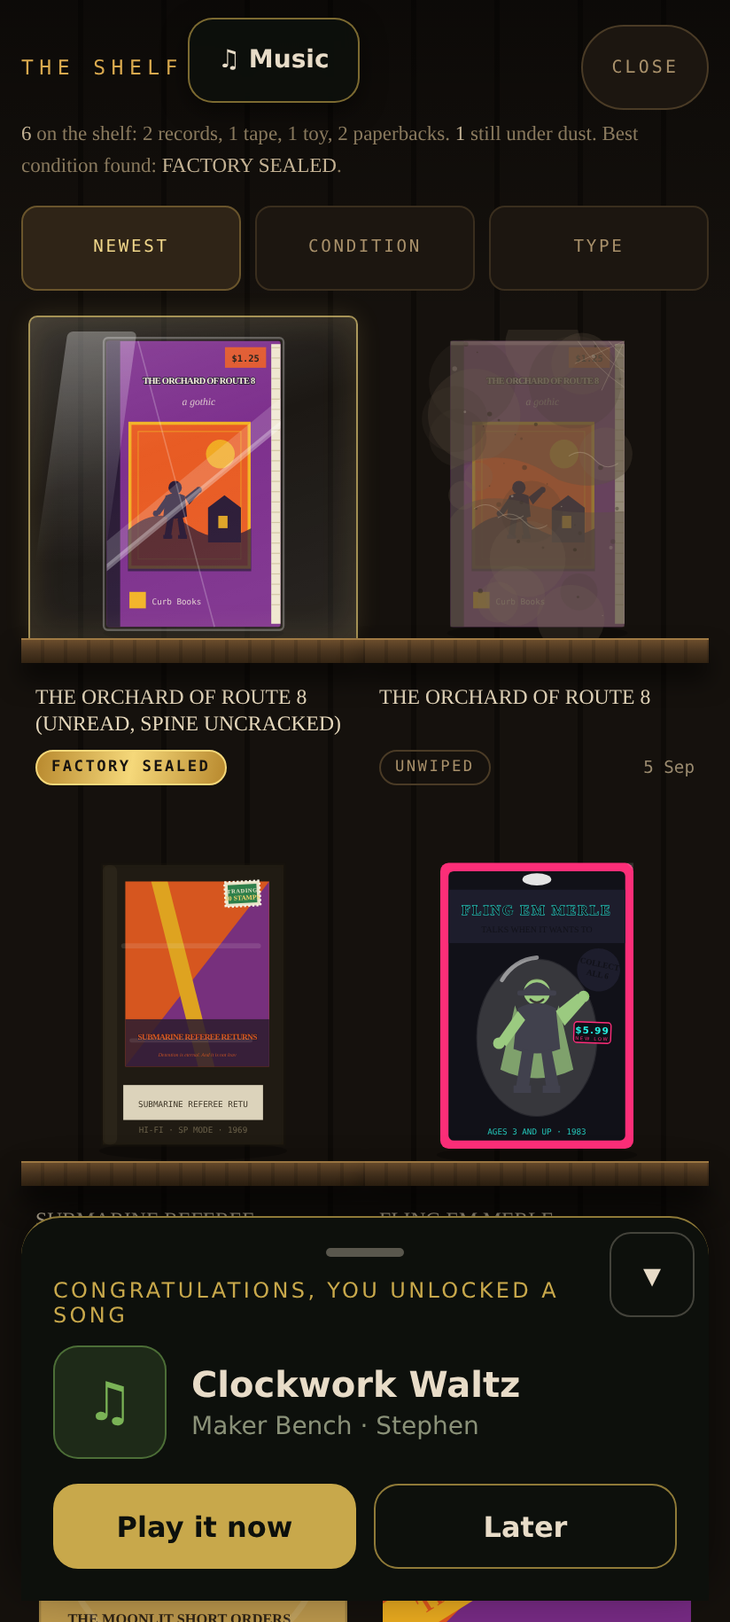
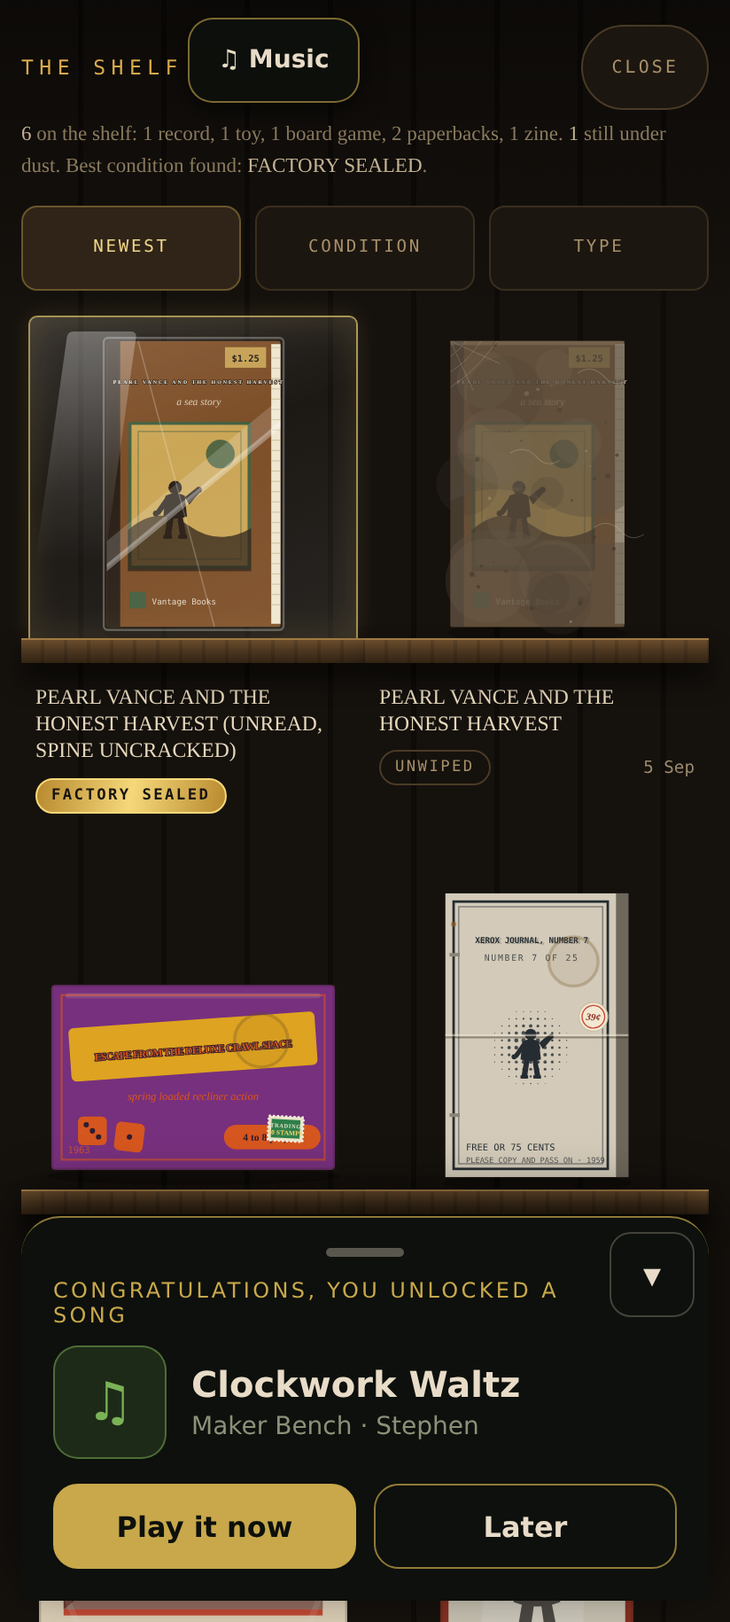
Litter Bug mint moment (vendored); The Attic objects stand on their plank, album lines fit
Litter Bug: the jar lifts, the bug rises, the grade stamps. The Attic: a board game and a
lunchbox floated above the board; each class slides down by the air under its drawn box and
the gate measures every card's drawn bottom against its plank; the record album sub lines fit
their room. Pins 20260905g. Attic gate 150 ok, Litter Bug 133 ok.

Claude-Session: https://claude.ai/code/session_013HthiUn8assva5gKt2q7fh

diff --git a/satellites/attic/sleeve-render.js b/satellites/attic/sleeve-render.js
@@ -207,26 +207,26 @@
         + '<rect y="168" width="300" height="8" fill="' + c[2] + '"/>'
         + '<rect x="12" y="' + (108) + '" width="' + (276) + '" height="46" fill="' + c[3] + '" opacity="0.9"/>'
         + '<text x="24" y="' + (140) + '" font-family="' + look.f + '" font-weight="800" ' + look.ta + ' font-size="' + fit(band, 30, 252, look.ls) + '" fill="' + c[0] + '"' + '>' + esc(band) + '</text>'
-        + '<text x="20" y="222" font-family="' + look.f + '" font-size="17" fill="' + c[0] + '">' + esc(album) + '</text>'
+        + '<text x="20" y="222" font-family="' + look.f + '" font-size="' + fit(album, 17, 262) + '" fill="' + c[0] + '">' + esc(album) + '</text>'
         + '<rect x="20" y="236" width="90" height="3" fill="' + c[2] + '"/>';
     } else if (layout === 1) {   // DIAGONAL: band name on an angle over a split field
       g += '<path d="M0 300 L300 0 L300 300 Z" fill="' + c[1] + '"/>'
         + '<g transform="rotate(-32 150 150)"><rect x="-40" y="130" width="380" height="44" fill="' + c[2] + '"/>'
         + '<text x="150" y="160" text-anchor="middle" font-family="' + look.f + '" font-weight="800" ' + look.ta + ' font-size="' + fit(band, 26, 292, look.ls) + '" fill="' + c[0] + '">' + esc(band) + '</text></g>'
-        + '<text x="284" y="252" text-anchor="end" font-family="' + look.f + '" font-size="14" fill="' + c[3] + '">' + esc(album) + '</text>';
+        + '<text x="284" y="252" text-anchor="end" font-family="' + look.f + '" font-size="' + fit(album, 14, 250) + '" fill="' + c[3] + '">' + esc(album) + '</text>';
     } else if (layout === 2) {   // SUN: centered circle motif
       g += '<circle cx="150" cy="132" r="86" fill="' + c[2] + '"/><circle cx="150" cy="132" r="58" fill="' + c[1] + '"/><circle cx="150" cy="132" r="12" fill="' + c[0] + '"/>'
         + '<text x="150" y="246" text-anchor="middle" font-family="' + look.f + '" font-weight="800" ' + look.ta + ' font-size="' + fit(band, 27, 280, look.ls) + '" fill="' + c[3] + '"' + '>' + esc(band) + '</text>'
-        + '<text x="150" y="266" text-anchor="middle" font-family="' + look.f + '" font-size="13" fill="' + c[2] + '">' + esc(album) + '</text>';
+        + '<text x="150" y="266" text-anchor="middle" font-family="' + look.f + '" font-size="' + fit(album, 13, 270) + '" fill="' + c[2] + '">' + esc(album) + '</text>';
     } else if (layout === 3) {   // BARS: horizontal banding, right-set type
       var i; for (i = 0; i < 7; i++) g += '<rect y="' + (i * 44) + '" width="300" height="22" fill="' + (i % 2 ? c[1] : c[2]) + '" opacity="' + (0.16 + i * 0.12) + '"/>';
       g += '<text x="282" y="84" text-anchor="end" font-family="' + look.f + '" font-weight="800" ' + look.ta + ' font-size="' + fit(band, 30, 266, look.ls) + '" fill="' + c[3] + '">' + esc(band) + '</text>'
-        + '<text x="282" y="112" text-anchor="end" font-family="' + look.f + '" font-size="15" fill="' + c[3] + '" opacity="0.8">' + esc(album) + '</text>';
+        + '<text x="282" y="112" text-anchor="end" font-family="' + look.f + '" font-size="' + fit(album, 15, 262) + '" fill="' + c[3] + '" opacity="0.8">' + esc(album) + '</text>';
     } else if (layout === 4) {   // SPLIT: two colour halves, the band name set tall up the seam
       g += '<rect width="150" height="300" fill="' + c[1] + '"/><rect x="150" width="150" height="300" fill="' + c[2] + '"/>'
         + '<rect x="142" width="16" height="300" fill="' + c[3] + '"/>'
         + '<g transform="rotate(-90 150 150)"><text x="150" y="158" text-anchor="middle" font-family="' + look.f + '" font-weight="800" ' + look.ta + ' font-size="' + fit(band, 30, 270, look.ls) + '" fill="' + c[0] + '">' + esc(band) + '</text></g>'
-        + '<text x="24" y="270" font-family="' + look.f + '" font-size="14" fill="' + c[3] + '">' + esc(album) + '</text>'
+        + '<text x="24" y="270" font-family="' + look.f + '" font-size="' + fit(album, 14, 200) + '" fill="' + c[3] + '">' + esc(album) + '</text>'
         + '<circle cx="222" cy="72" r="34" fill="' + c[0] + '" opacity="0.9"/><circle cx="222" cy="72" r="6" fill="' + c[3] + '"/>';
     } else if (layout === 5) {   // PLATE: a photograph plate with a title strip under it, the label house look
       g += '<rect x="24" y="22" width="252" height="176" fill="' + c[3] + '"/>'
@@ -235,17 +235,17 @@
         + '<path d="M24 198 L120 120 L180 160 L276 96 L276 198 Z" fill="' + c[0] + '" opacity="0.35"/>'
         + '<rect x="24" y="198" width="252" height="6" fill="' + c[2] + '"/>'
         + '<text x="28" y="240" font-family="' + look.f + '" font-weight="800" ' + look.ta + ' font-size="' + fit(band, 26, 244, look.ls) + '" fill="' + c[3] + '">' + esc(band) + '</text>'
-        + '<text x="28" y="262" font-family="' + look.f + '" font-size="13" fill="' + c[2] + '">' + esc(album) + '</text>';
+        + '<text x="28" y="262" font-family="' + look.f + '" font-size="' + fit(album, 13, 246) + '" fill="' + c[2] + '">' + esc(album) + '</text>';
     } else if (layout === 6) {   // TARGET: concentric rings off centre, the name across the middle
       var rr2; for (rr2 = 150; rr2 > 0; rr2 -= 26) g += '<circle cx="190" cy="120" r="' + rr2 + '" fill="' + ((rr2 / 26) % 2 ? c[1] : c[2]) + '"/>';
       g += '<rect y="132" width="300" height="52" fill="' + c[3] + '" opacity="0.92"/>'
         + '<text x="150" y="168" text-anchor="middle" font-family="' + look.f + '" font-weight="800" ' + look.ta + ' font-size="' + fit(band, 30, 276, look.ls) + '" fill="' + c[0] + '">' + esc(band) + '</text>'
-        + '<text x="150" y="222" text-anchor="middle" font-family="' + look.f + '" font-style="italic" font-size="14" fill="' + c[3] + '">' + esc(album) + '</text>';
+        + '<text x="150" y="222" text-anchor="middle" font-family="' + look.f + '" font-style="italic" font-size="' + fit(album, 14, 276) + '" fill="' + c[3] + '">' + esc(album) + '</text>';
     } else {                     // GRID: nine tiles, one inverted, the name in a bar
       var gi, gj; for (gi = 0; gi < 3; gi++) for (gj = 0; gj < 3; gj++) { var inv = (gi * 3 + gj) === (hb(h, 28) % 9); g += '<rect x="' + (18 + gi * 90) + '" y="' + (18 + gj * 60) + '" width="84" height="54" fill="' + (inv ? c[2] : c[1]) + '"/>' + (inv ? '<circle cx="' + (60 + gi * 90) + '" cy="' + (45 + gj * 60) + '" r="16" fill="' + c[0] + '"/>' : ''); }
       g += '<rect y="206" width="300" height="60" fill="' + c[3] + '"/>'
         + '<text x="150" y="238" text-anchor="middle" font-family="' + look.f + '" font-weight="800" ' + look.ta + ' font-size="' + fit(band, 26, 276, look.ls) + '" fill="' + c[0] + '">' + esc(band) + '</text>'
-        + '<text x="150" y="256" text-anchor="middle" font-family="' + look.f + '" font-size="12" fill="' + c[0] + '" opacity="0.8">' + esc(album) + '</text>';
+        + '<text x="150" y="256" text-anchor="middle" font-family="' + look.f + '" font-size="' + fit(album, 12, 276) + '" fill="' + c[0] + '" opacity="0.8">' + esc(album) + '</text>';
     }
     // label logo chip + era year, always
     g += '<rect x="16" y="272" width="12" height="12" fill="' + c[2] + '"/>'

diff --git a/satellites/litter-bug/index.html b/satellites/litter-bug/index.html
@@ -224,6 +224,27 @@ h1.logo{font-size:46px;line-height:1;color:var(--grub);font-weight:800;letter-sp
 
 /* ── mint ── */
 .mintwrap{display:flex;flex-direction:column;align-items:center;gap:10px}
+/* THE MINT MOMENT (2026-09-05). Thirty Shinies used to cut straight to a finished card. Now the
+   jar sits on the screen, the lid lifts and the jar fades up and away, the bug rises out of it,
+   the grade stamps on, and the name and lore settle in after. Two seconds, skippable by a tap,
+   none of it under prefers-reduced-motion. */
+.mintstage{position:relative;width:230px;height:230px}
+.mintstage .mjar{position:absolute;left:50%;top:50%;width:140px;height:196px;transform:translate(-50%,-50%);filter:drop-shadow(0 10px 22px #000a)}
+.mintstage .mjar svg{width:100%;height:100%;display:block}
+.mintstage #m-art{position:relative}
+.ceremony .mintstage .mjar{animation:jarlift .95s ease-in .25s both}
+.ceremony .mintstage #m-art{animation:bugrise 1s cubic-bezier(.2,.8,.2,1) .55s both}
+.ceremony .mglow{position:absolute;left:50%;top:50%;width:260px;height:260px;border-radius:50%;transform:translate(-50%,-50%);
+  background:radial-gradient(circle,#e8c46a55 0%,#e8c46a22 35%,transparent 70%);animation:glowin 1.4s ease-out .4s both;pointer-events:none}
+.ceremony #m-grade{animation:pop .5s ease-out 1.35s both}
+.ceremony #m-marks,.ceremony #m-name,.ceremony #m-species,.ceremony #m-lore,.ceremony #m-grow,.ceremony #m-kicker{animation:settle .6s ease-out 1.65s both}
+.ceremony #m-lore,.ceremony #m-grow{animation-delay:1.9s}
+.mintwrap:not(.ceremony) .mjar,.mintwrap:not(.ceremony) .mglow{display:none}
+@keyframes jarlift{0%{opacity:1;transform:translate(-50%,-50%)}35%{opacity:.85;transform:translate(-50%,-60%) rotate(-4deg)}100%{opacity:0;transform:translate(-50%,-150%) rotate(-14deg)}}
+@keyframes bugrise{0%{opacity:0;transform:translateY(46px) scale(.55)}60%{opacity:1}100%{opacity:1;transform:translateY(0) scale(1)}}
+@keyframes glowin{0%{opacity:0;transform:translate(-50%,-50%) scale(.4)}40%{opacity:1}100%{opacity:0;transform:translate(-50%,-50%) scale(1.5)}}
+@keyframes settle{0%{opacity:0;transform:translateY(8px)}100%{opacity:1;transform:translateY(0)}}
+@media (prefers-reduced-motion:reduce){ .ceremony *{animation:none !important} .mintwrap .mjar,.mintwrap .mglow{display:none} }
 /* ⛔ this used to be a 1px outline on the page ground. On a COMMON that is grey
    text in a grey ring on a dark screen and it reads as a DISABLED BUTTON, which
    is a terrible thing for the label on the bug you just earned. It is a filled
@@ -545,8 +566,8 @@ h1.logo{font-size:46px;line-height:1;color:var(--grub);font-weight:800;letter-sp
   <div class="screen" id="s-mint">
     <div class="pad center">
       <div class="dim" style="letter-spacing:3px;font-size:13px" id="m-kicker">SOMETHING IN THE JAR</div>
-      <div class="mintwrap" style="margin-top:14px">
-        <div id="m-art"></div>
+      <div class="mintwrap" id="m-wrap" style="margin-top:14px">
+        <div class="mintstage"><div class="mglow"></div><div class="mjar" id="m-jar"></div><div id="m-art"></div></div>
         <div class="gradepill" id="m-grade">COMMON</div>
         <div class="marks" id="m-marks"></div>
         <div class="specname" id="m-name"></div>
@@ -1697,6 +1718,9 @@ async function doMint(){
   $('m-lore').textContent=id.lore;
   $('m-kicker').textContent='SPECIMEN '+((SAVE.dex||[]).length+1);
   LB_SFX.play('jar');
+  /* the ceremony: reset the classes so a second mint plays it again, then let it run */
+  var mw=$('m-wrap'); mw.classList.remove('ceremony'); void mw.offsetWidth;
+  $('m-jar').innerHTML=jarSVG(); mw.classList.add('ceremony');
   var gl=growthLeft(gr,1);
   $('m-grow').textContent='Level 1. It fights small. Every win in the dumpster grows it.'
     +(gl.left ? ' '+gl.left+' of '+gl.total+' parts still to grow in, the '+gl.next.label+' first, at level '+gl.nextLvl+'.' : '');
@@ -2232,6 +2256,8 @@ $('b-done-home').onclick=function(){ paintHome(); show('s-home'); };
 $('b-done-mint').onclick=function(){ doMint(); };
 $('b-mint').onclick=function(){ doMint(); };
 $('b-mint-keep').onclick=function(){ keepBug(); };
+/* a tap anywhere on the mint screen lands the ceremony at its end */
+$('s-mint').addEventListener('click', function(e){ var mw=$('m-wrap'); if(mw.classList.contains('ceremony') && !(e.target&&e.target.id==='b-mint-keep')) mw.classList.remove('ceremony'); }, true);
 $('b-dex').onclick=function(){ paintDex(); show('s-dex'); };
 $('b-dex-back').onclick=function(){ paintHome(); show('s-home'); };
 $('b-spec-back').onclick=function(){ paintDex(); show('s-dex'); };
@@ -2318,6 +2344,7 @@ if(/[?&]lbtest=1/.test(location.search)){
     setCuts:function(a){ var C=BUG_ENGINE.GRADE_CUT; C.length=0; for(var i=0;i<a.length;i++) C.push(a[i]); return C; },
     plan:BUG_ENGINE.bugPlan, svg:bugSVG, openSpec:openSpec, renderCard:renderBugCard, sfx:LB_SFX, openBeat:openBeat, openI:function(){ return OPEN_I; },
     coach:coachLine, growthNote:growthNote, ledger:function(){ return AR?AR.ledger:null; },
+    ceremonyOn:function(){ return $('m-wrap').classList.contains('ceremony'); },
     dailyCap:function(){ return DAILY_CAP; },
     capState:capState, jobState:function(){ return G; },
     reset:function(){ SAVE={shinies:0,dex:[],jobs:0,lastDay:0,champ:null,king:null,bests:{},times:{},week:null,cleanWeeks:0}; save();

diff --git a/satellites/litter-bug/check.js b/satellites/litter-bug/check.js
@@ -495,6 +495,31 @@ function ok(cond, label, detail) {
     ok(ar.before === 1 && ar.rows >= 2 && ar.hotFirst && ar.tagged, 'the ledger keeps every round, newest on top in ink, tagged by round', { before: ar.before, rows: ar.rows, hotFirst: ar.hotFirst, tagged: ar.tagged });
     ok(ar.logH >= 100 && ar.gap <= 16, 'the ledger box fills the space above the moves', { logH: ar.logH, gap: ar.gap });
 
+    // ══ THE MINT MOMENT ═══════════════════════════════════════════════
+    group('the mint moment: the jar lifts, the bug rises, the grade stamps, a tap lands it');
+    const mmPage = await open(FILE + '?lbtest=1');
+    const mm = await mmPage.evaluate(async () => {
+      const D = window.LB_DEV; D.reset(); D.setShinies(D.mintCost);
+      await D.doMint();
+      const wait = ms => new Promise(r => setTimeout(r, ms));
+      const on0 = D.ceremonyOn();
+      const jar = document.getElementById('m-jar'), art = document.getElementById('m-art'), pill = document.getElementById('m-grade');
+      const names = el => getComputedStyle(el).animationName;
+      const a0 = { jar: names(jar), art: names(art), pill: names(pill), jarSvg: !!jar.querySelector('svg') };
+      const jarOp0 = parseFloat(getComputedStyle(jar).opacity), artOp0 = parseFloat(getComputedStyle(art).opacity);
+      await wait(1900);
+      const jarOp1 = parseFloat(getComputedStyle(jar).opacity), artOp1 = parseFloat(getComputedStyle(art).opacity);
+      /* a tap on the stage lands it early */
+      document.getElementById('m-wrap').classList.add('ceremony');
+      document.getElementById('m-art').dispatchEvent(new MouseEvent('click', { bubbles: true }));
+      const landed = !D.ceremonyOn(), jarHidden = getComputedStyle(jar).display === 'none';
+      return { on0, a0, jarOp0, artOp0, jarOp1, artOp1, landed, jarHidden, scr: D.cur() };
+    });
+    await mmPage.close();
+    ok(mm.on0 && mm.a0.jar === 'jarlift' && mm.a0.art === 'bugrise' && mm.a0.pill === 'pop' && mm.a0.jarSvg, 'the mint opens with the jar on stage, the bug rising, the pill stamping', mm.a0);
+    ok(mm.jarOp0 > 0.9 && mm.artOp0 < 0.1 && mm.jarOp1 < 0.1 && mm.artOp1 > 0.9, 'at the start the jar is solid and the bug unseen; two seconds later the jar is gone and the bug is there', { jarOp0: mm.jarOp0, artOp0: mm.artOp0, jarOp1: mm.jarOp1, artOp1: mm.artOp1 });
+    ok(mm.landed && mm.jarHidden && mm.scr === 's-mint', 'a tap on the stage lands the ceremony at its end', { landed: mm.landed, jarHidden: mm.jarHidden });
+
     // ══ A CORRUPT SAVE ════════════════════════════════════════════════
     group('a junk save boots into a clean game, not a dead page');
     const JUNK = [

diff --git a/satellites/attic/index.html b/satellites/attic/index.html
@@ -352,6 +352,15 @@
 .shCard:active .shObj{ filter:brightness(1.12) }
 .shObj{ padding:8px 10px 0; position:relative }
 .shObj svg{ width:100%; height:auto; display:block }
+/* ⛔ THINGS STAND ON THE BOARD. Every object is drawn in a 300 square, and a board game or a
+   lunchbox is a landscape box in the middle of it, so on the first shelf they floated an
+   inch above the plank while the tall boxes sat on it. Each class slides down by the air
+   under its drawn box (its by + bh in object-render.js), so the drawn bottom and its shadow
+   meet the plank. Records fill the square and stay put. */
+/* the drawn bottom includes the shadow the renderer throws under the box (about 14 units), so
+   the tall classes already reach the board and only the two landscape boxes slide down */
+.shObj[data-cls="GAME"] svg{ transform:translateY(13%) }
+.shObj[data-cls="LUNCHBOX"] svg{ transform:translateY(12.5%) }
 /* the plank: a board with a lit top edge, grain, and the shadow it throws on the wall below */
 .shPlank{ height:14px; position:relative; background:linear-gradient(180deg, #6b4d2c 0, #4b3620 48%, #332413 100%);
   border-top:1px solid #a07a44; box-shadow:0 9px 14px rgba(0,0,0,0.62) }
@@ -662,10 +671,10 @@
 </div></div>
 <div id="toast"></div>
 
-<script src="attic-engine.js?v=20260905f"></script>
-<script src="attic-econ.js?v=20260905f"></script>
-<script src="sleeve-render.js?v=20260905f"></script>
-<script src="object-render.js?v=20260905f"></script>
+<script src="attic-engine.js?v=20260905g"></script>
+<script src="attic-econ.js?v=20260905g"></script>
+<script src="sleeve-render.js?v=20260905g"></script>
+<script src="object-render.js?v=20260905g"></script>
 <script>
 (function () {
   'use strict';
@@ -1245,7 +1254,7 @@
     for (i = 0; i < SH_SHOWN; i++) {
       h = list[i]; it = ATTIC.hashToItem(h); wiped = !!revealed[h];
       html += '<button class="shCard' + (wiped && it.grade === 'FACTORY SEALED' ? ' sealed' : '') + '" data-h="' + h + '">'
-        + '<div class="shObj">' + ATTIC_OBJECT.renderItem(h, 260, { dusty: !wiped }).svg + '</div>'
+        + '<div class="shObj" data-cls="' + esc(it.cls) + '">' + ATTIC_OBJECT.renderItem(h, 260, { dusty: !wiped }).svg + '</div>'
         + '<div class="shPlank"></div>'
         + '<div class="shLabel"><div class="shName">' + esc(it.name) + (wiped && it.revealSuffix ? esc(it.revealSuffix) : '') + '</div>'
         + '<div class="shFoot">'

diff --git a/satellites/attic/check.js b/satellites/attic/check.js
@@ -644,14 +644,23 @@ if (process.env.AT_NOBROWSER === '1') { console.log('\n(browser group skipped: A
       const cs = sealed ? getComputedStyle(sealed, '::before') : null;
       const caseOk = !!cs && parseFloat(cs.borderTopWidth) >= 1 && cs.backgroundImage !== 'none';
       const cardBox = getComputedStyle(cards[0]).borderTopWidth;
+      /* every object's DRAWN bottom (the svg's content box, not its square) must meet its plank:
+         a board game floated an inch above the board on the first shelf */
+      const seats = cards.map(c => { const svg = c.querySelector('.shObj svg'), pl = c.querySelector('.shPlank').getBoundingClientRect();
+        let bb; try { bb = svg.getBBox(); } catch (e) { return null; }
+        /* the dust layer paints past the square and the svg clips it, so the drawn bottom is capped at 300 */
+        const r = svg.getBoundingClientRect(), sc = r.height / 300; const bottom = r.top + Math.min(300, bb.y + bb.height) * sc;
+        return Math.round(pl.top - bottom); });
+      const seatOk = seats.every(g => g !== null && g >= -6 && g <= 14), seatMax = Math.max.apply(null, seats), seatMin = Math.min.apply(null, seats);
       D.dropPull(sealedH); delete D.revealed()[sealedH];
       D.closeShelf();
-      return { n: cards.length, parts, sameRow, plankH: Math.round(plankH), wall: wall !== 'none', caseOk, cardBox };
+      return { n: cards.length, parts, sameRow, plankH: Math.round(plankH), wall: wall !== 'none', caseOk, cardBox, seatOk, seatMin, seatMax, seats };
     });
     ok('every find stands on a plank with its label under the board', room.n >= 4 && room.parts, JSON.stringify(room));
     ok('two finds in a row share one continuous plank', room.sameRow && room.plankH >= 10, JSON.stringify({ sameRow: room.sameRow, plankH: room.plankH }));
     ok('the wall is boards, and the cards have no box of their own', room.wall && room.cardBox === '0px', JSON.stringify({ wall: room.wall, cardBox: room.cardBox }));
     ok('a factory sealed find sits in a glass case', room.caseOk, room.caseOk);
+    ok('every object stands on its plank: drawn bottom within a thumb of the board', room.seatOk, JSON.stringify({ min: room.seatMin, max: room.seatMax, seats: room.seats }));
 
     group('the wear line waits for the wipe');
     const wear = await page.evaluate(() => new Promise((res) => {

diff --git a/docs/FLAGSHIP-PLAN-LB-ATTIC.md b/docs/FLAGSHIP-PLAN-LB-ATTIC.md
@@ -26,6 +26,7 @@ here. Litter Bug edits live in `/workspaces/Litter_Bug` and are re-vendored; The
 | 10 | Onboarding: the first run opens on three beats instead of the rules wall (the alley, drawn; the jar with a real bug behind the glass; the padlocked dumpster), one kicker, one line, one sub each, a dot strip, NEXT then WORK THE ALLEY, a SKIP pill (72 CSS px, the stage scale trap again), a tap on the picture turns the page; the device remembers (lb_how) and HOW TO PLAY keeps the full rules. Gate: a fresh device opens on beat one and NEXT walks all three, every beat has a picture and a line, the third lands on HOME, the next visit opens on HOME with the rules still under HOW TO PLAY; 124 ok, the remember mutant red. Shots `lb-open-beat1.png` to `lb-open-beat3.png` | done Sep 05 |
 | 11 | Painted places land (alley, four trials, lid, jar, dumpster) and replace the drawn ones | waits on paint |
 | 12 | Arena pass: the log is a fight ledger now (a box that fills the 300px hole between the champion and the moves, every round kept, newest on top in ink, older rounds stepping back, tagged R1 R2, scrolling when long); the tell carries one coaching sentence (when the incoming hit is a threat and a status move answers it, that move by name: Guard halves it, Cinder Swarm takes the sting out of it, Fortify blunts it, Feint spoils its aim, Rust Hex slows it; otherwise, when a move of yours lands hard, it says so); the win card names the level and which part grew in, with a chip, or the next part and its level. Gate 130 ok. **BALANCE, DIRECTOR CALL.** Measured over seven days of real ladders, 60 fresh champions, the engine playing both sides: challenger 1 (offset -3): LV1 55% (days 20 to 85%), LV5 78% (days 32 to 98%), LV10 71% (days 28 to 98%), LV20 64% (days 25 to 97%) · challenger 2 (offset -1): LV1 48% (days 2 to 80%), LV5 54% (days 8 to 83%), LV10 52% (days 5 to 78%), LV20 52% (days 7 to 78%) · challenger 3 (offset 1): LV1 32% (days 5 to 57%), LV5 33% (days 7 to 57%), LV10 36% (days 7 to 67%), LV20 37% (days 3 to 67%) · challenger 4 (offset 3): LV1 12% (days 0 to 33%), LV5 17% (days 2 to 37%), LV10 19% (days 7 to 40%), LV20 23% (days 7 to 43%) · challenger 5 (offset 6): LV1 9% (days 0 to 18%), LV5 15% (days 0 to 37%), LV10 19% (days 3 to 42%), LV20 25% (days 3 to 53%) · all five in one day at LV5: about 0.3% of champions, engine AI both sides · all five in one day at LV10: about 0.5% of champions, engine AI both sides · all five in one day at LV20: about 0.7% of champions, engine AI both sides · with offsets [-3,-1,0,1,3] at LV10: C1 71%, C2 52%, C3 42%, C4 27%, C5 27% · at equal level (LV10 vs LV10) per rung: C1 55%, C2 46%, C3 42%, C4 33%, C5 43%. Rungs one and two are a fair fight; rungs four and five are a wall at every level, and the crown (all five in one day, thirty Shinies, "a whole bug") lands for about one champion in two hundred, so the purse is a promise almost nobody can collect. Proposal: level offsets [-3,-1,0,1,3] instead of [-3,-1,1,3,6] (rungs four and five go to about 27 percent, the crown to a few percent a day), or keep the offsets and let the crown count across days (five different challengers beaten, whenever). Today's numbers when I first wrote this row were one mean day (C3 5, C4 0, C5 10 percent) and I wrote "about half at every rung" before the numbers came out; that sentence was wrong and is gone | done Sep 05, balance is a call |
+| 13 | The mint moment: thirty Shinies used to cut straight to a finished card. Now the jar sits on the stage, a glow blooms, the jar lifts and fades away, the bug rises out of it, the grade stamps on and the name and lore settle in after, about two seconds, a tap on the stage lands it early, none of it under prefers-reduced-motion. Gate: the jar is solid and the bug unseen at the start, two seconds later the jar is gone and the bug is there, a tap lands it; 133 ok. Frames `lb-mint-jar.png`, `lb-mint-rise.png`, `lb-mint-settled.png` (a 2x screenshot takes most of a second on this box, so the frames run late; the computed opacity trace is the proof) | done Sep 05 |
 
 ## The Attic
 
@@ -35,7 +36,7 @@ here. Litter Bug edits live in `/workspaces/Litter_Bug` and are re-vendored; The
 | 2 | Layout banks: records 4 to 8 sleeve layouts, VHS 3 to 6 motifs, cereal 4 to 8 mascots, comics 1 to 3 covers, toys 1 to 3 card backs, handhelds 1 to 3 shells, board games dice or spinner or pawns, paperbacks 1 to 3 vignettes, lunchboxes 1 to 3 scenes, zines 1 to 3 pages; every switch on a byte the renderers never spent (7 to 15, 30, 31), so an existing find only changes picture when its new byte says so; sixty renders old and new looked at, gate 128 ok | done Sep 05 |
 | 3 | Era depth: the price sticker is an era object now (a 39 cent paper dot with a red ring, a green trading stamp with a perforated edge, an orange price gun label with a torn edge and a SALE line, a black shop tag with a neon edge, a clearance barcode), read off the era byte the engine reads, shown on wiped grades up to NEAR MINT as before; every class's title carries its era's type treatment (50s italic script, 60s round bubble outline, 70s spaced slab with a mitre outline, 80s narrow caps with a cyan hairline, 90s mono spread wide and a little faded) through one attribute string per era on the eight title lines, and `fit` now subtracts the letter spacing so the 80s and 90s titles stay inside their boxes (the first sheet ran them a hundred units past). Records got the same treatment in a second pass (the era sticker moved into sleeve-render.js so both renderers share one, the eight band name layouts carry the era voice, the sleeve's own cream oval is gone): `attic-era-records-sheet.png`, eight layouts by five eras. Sheet: `attic-era-sheet.png`, nine classes by five eras at GOOD. Gate 135 ok, the era mutant (every sticker 70s) red through a new AT_OBJECT override. Pins 20260905d | done Sep 05 |
 | 4 | Condition as story: a WEAR bank per grade in the engine (56 lines, ten a grade at the low end, four at FACTORY SEALED), `revealStory` on every item, printed only after the wipe, under the plate on the find card and the flip card, as a WEAR row on the ledger and above the plate on the shared PNG; the class flaw moved from an orphan line under the maker to the same block ("The button legends have worn away to blanks. Passed around a whole street of cousins."); FINE and NEAR MINT had nothing to say after the wipe before this. Found and fixed on the way: the workout VHS cover stripes bled a third of the cover past both edges on every shared card (cover art now clipped, id cut from bytes 3 to 7 so the dusty art stays grade blind), and the PNG plate now steps down when the name and sub both wrap. Gate 132 ok, the two story assertions watched red on an engine mutant. Pins bumped to 20260905c | done Sep 05 |
-| 5 | The shelf as a room: the wall is boards, every row of finds stands on one continuous plank (the cards lost their box and their gap so the plank segments join; the label hangs under the board), a factory sealed find sits in a glass case with a glare (an overlay, because a case that changed the object's width put that plank 4px off the row). FOUND AND FIXED ON THE WAY: **scrapping a find did not survive a reload.** The shelf save is a union of memory and disk for the two tab case, and it kept the disk copy of a find the player had just scrapped, so every scrap came back on the next load with its ticket already paid (scrap, reload, scrap again: a free ticket every two reloads). Now a scrapped hash gets a tombstone kept for a week (`attic_gone_v1`), no merge or boot read lets it through; the gate scraps through the real button, reloads, and counts. Gate 149 ok; the econ mutant (merge ignoring tombstones) red through a new AT_ECON override. Pins 20260905e. Shots `attic-shelf-room.png`, `attic-shelf-room-320.png`. The shell's music chip covers THE SHELF title on this sheet (music-unlocks.js, not this terminal's fence) | done Sep 05 |
+| 5 | The shelf as a room: the wall is boards, every row of finds stands on one continuous plank (the cards lost their box and their gap so the plank segments join; the label hangs under the board), a factory sealed find sits in a glass case with a glare (an overlay, because a case that changed the object's width put that plank 4px off the row); every object STANDS on its plank (a board game and a lunchbox are landscape boxes in the middle of their square and floated an inch above the board on the first shelf; each class slides down by the air under its drawn box and the gate measures the drawn bottom against the plank on every card). FOUND AND FIXED ON THE WAY: **scrapping a find did not survive a reload.** The shelf save is a union of memory and disk for the two tab case, and it kept the disk copy of a find the player had just scrapped, so every scrap came back on the next load with its ticket already paid (scrap, reload, scrap again: a free ticket every two reloads). Now a scrapped hash gets a tombstone kept for a week (`attic_gone_v1`), no merge or boot read lets it through; the gate scraps through the real button, reloads, and counts. Gate 149 ok; the econ mutant (merge ignoring tombstones) red through a new AT_ECON override. Pins 20260905e. Shots `attic-shelf-room.png`, `attic-shelf-room-320.png`. The shell's music chip covers THE SHELF title on this sheet (music-unlocks.js, not this terminal's fence) | done Sep 05 |
 | 6 | Loop: DUST OFF is already a minigame with a daily cap (built Sep 04, gated). Sets and the pawn counter are DIRECTOR CALLS because both are ticket sources: proposal, a set is three of one class from one era, pays two tickets once per set and stamps the shelf with a set ribbon; the pawn counter buys a find for tickets by grade (TRASHED 0, PLAYED 0, GOOD 1, FINE 1, NEAR MINT 2, MINT 3, FACTORY SEALED never, it is the grail) and replaces the flat two scraps for one ticket, so a MINT is worth keeping or selling and a TRASHED is worth nothing, which is what a pawn shop would say. Say yes to either and it is one pass each |
 | 7 | Sound: `ATTIC_SFX`, a WebAudio synth in the page, no files, in the attic's voice: a tap on every button, the rummage rustle, the wipe brushing, a plate sting that climbs with the grade (a thud for TRASHED, one note for PLAYED, up to four for MINT, a fanfare and shimmer for FACTORY SEALED, landing when the cloth finishes), the dust panel rustle (throttled) and the stub ding, the scrap crumple, the want list bell, the card snap; a SOUND chip in the header (48px) kept in attic_snd, muting at the speaker. Gate: every cue bounced offline must move air (it caught the dust rustle twice before it had a body), the beats fire from the real paths on a fresh panel, the chip mutes, remembers and unmutes; 141 ok, the rummage mutant red. Unheard by a human | done Sep 05, unheard |
 | 8 | Painted plate, dust veil, plank and ticket land | waits on paint |

diff --git a/satellites/attic/AUDIT-NOTES.md b/satellites/attic/AUDIT-NOTES.md
@@ -207,3 +207,4 @@ that are actually open right now, and when none is, it says when one opens.
 - Sep 05 (later), sound: `ATTIC_SFX` in index.html (WebAudio, no files), cues on the real paths, `#sndBtn` chip in the backrow, `attic_snd` in localStorage. Gate: sound group (six assertions, offline RMS per cue). 141 ok.
 - Sep 05 (later), the shelf as a room + a scrap leak: `.shObj/.shPlank/.shLabel` per card, boards on `#shelfSheet`, the sealed case is `.shObj::before`. ⛔ SCRAP LEAK: `mergeShelfToDisk` unioned disk and memory so a scrapped find came back on reload with its ticket paid; `attic_gone_v1` tombstones (econ `readGone`/`mergeGoneToDisk`, week TTL) filter every merge and the boot read. Gate: room group (4), tombstone group (3), reload scrap assertion; `AT_ECON=` mutant override. Pins 20260905e. 149 ok.
 - Sep 05 (later), records era depth: `priceSticker` lives in sleeve-render.js (exported; object-render.js calls `S.priceSticker`), the sleeve ERA_LOOK carries `ta`/`ls`, `fit()` takes the spacing, the sleeve's cream oval is gone. Gate era group covers RECORD now. Pins 20260905f. 149 ok.
+- Sep 05 (later), the shelf seat: `.shObj[data-cls]` translateY per class (GAME 13%, LUNCHBOX 12.5%), the gate measures each card's drawn bottom (getBBox, capped at 300 because the dust paints past the square) against its plank. Album sub lines fit. Pins 20260905g. 150 ok.

diff --git a/docs/GAMES-PASS-SEP05.md b/docs/GAMES-PASS-SEP05.md
@@ -220,3 +220,11 @@ The fight is a ledger now (the 300px hole is gone), the tell coaches one sentenc
 ### The Attic era pass, records (Sep 05, later)
 
 The flagship class had been left out of the era pass. Records now wear the era sticker (shared with the other nine classes) and the era title voice on all eight sleeve layouts. Sheet: `attic-era-records-sheet.png` (`recsheet.mjs`).
+
+### Litter Bug mint moment (Sep 05, later)
+
+The jar lifts, the bug rises, the grade stamps, the name settles. Frames: `lb-mint-jar.png`, `lb-mint-rise.png`, `lb-mint-settled.png`.
+
+### The Attic shelf, objects stand (Sep 05, later)
+
+A board game and a lunchbox floated above the plank; every class now slides down by the air under its drawn box and the gate measures the seat on every card. The record album sub lines now fit their room instead of clipping.
